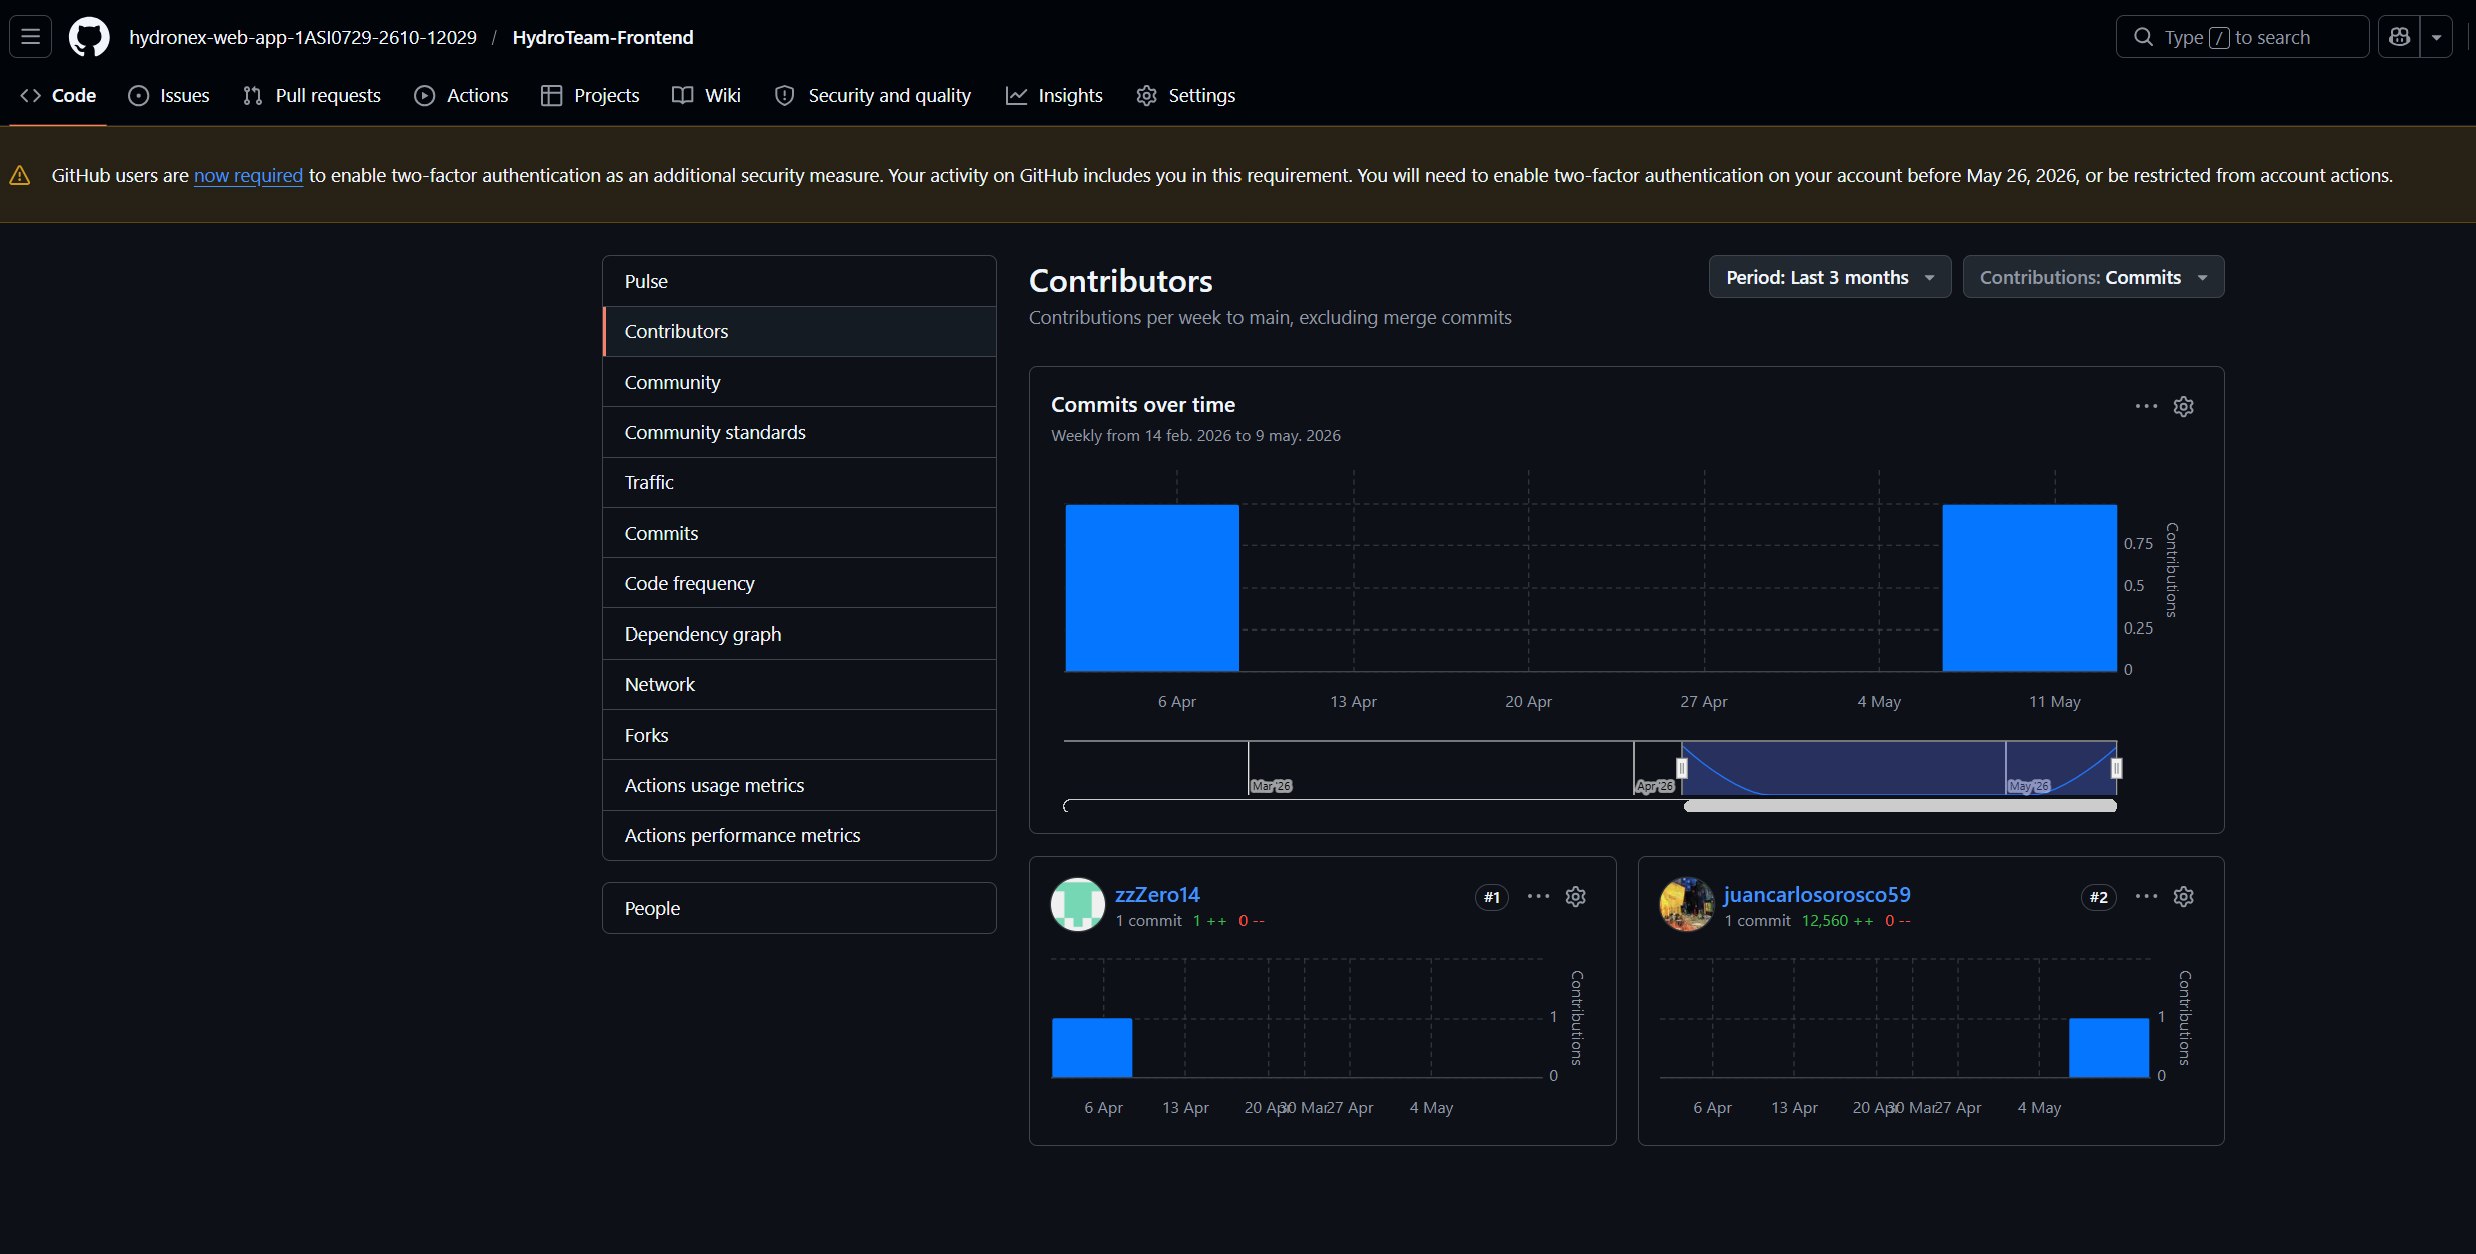
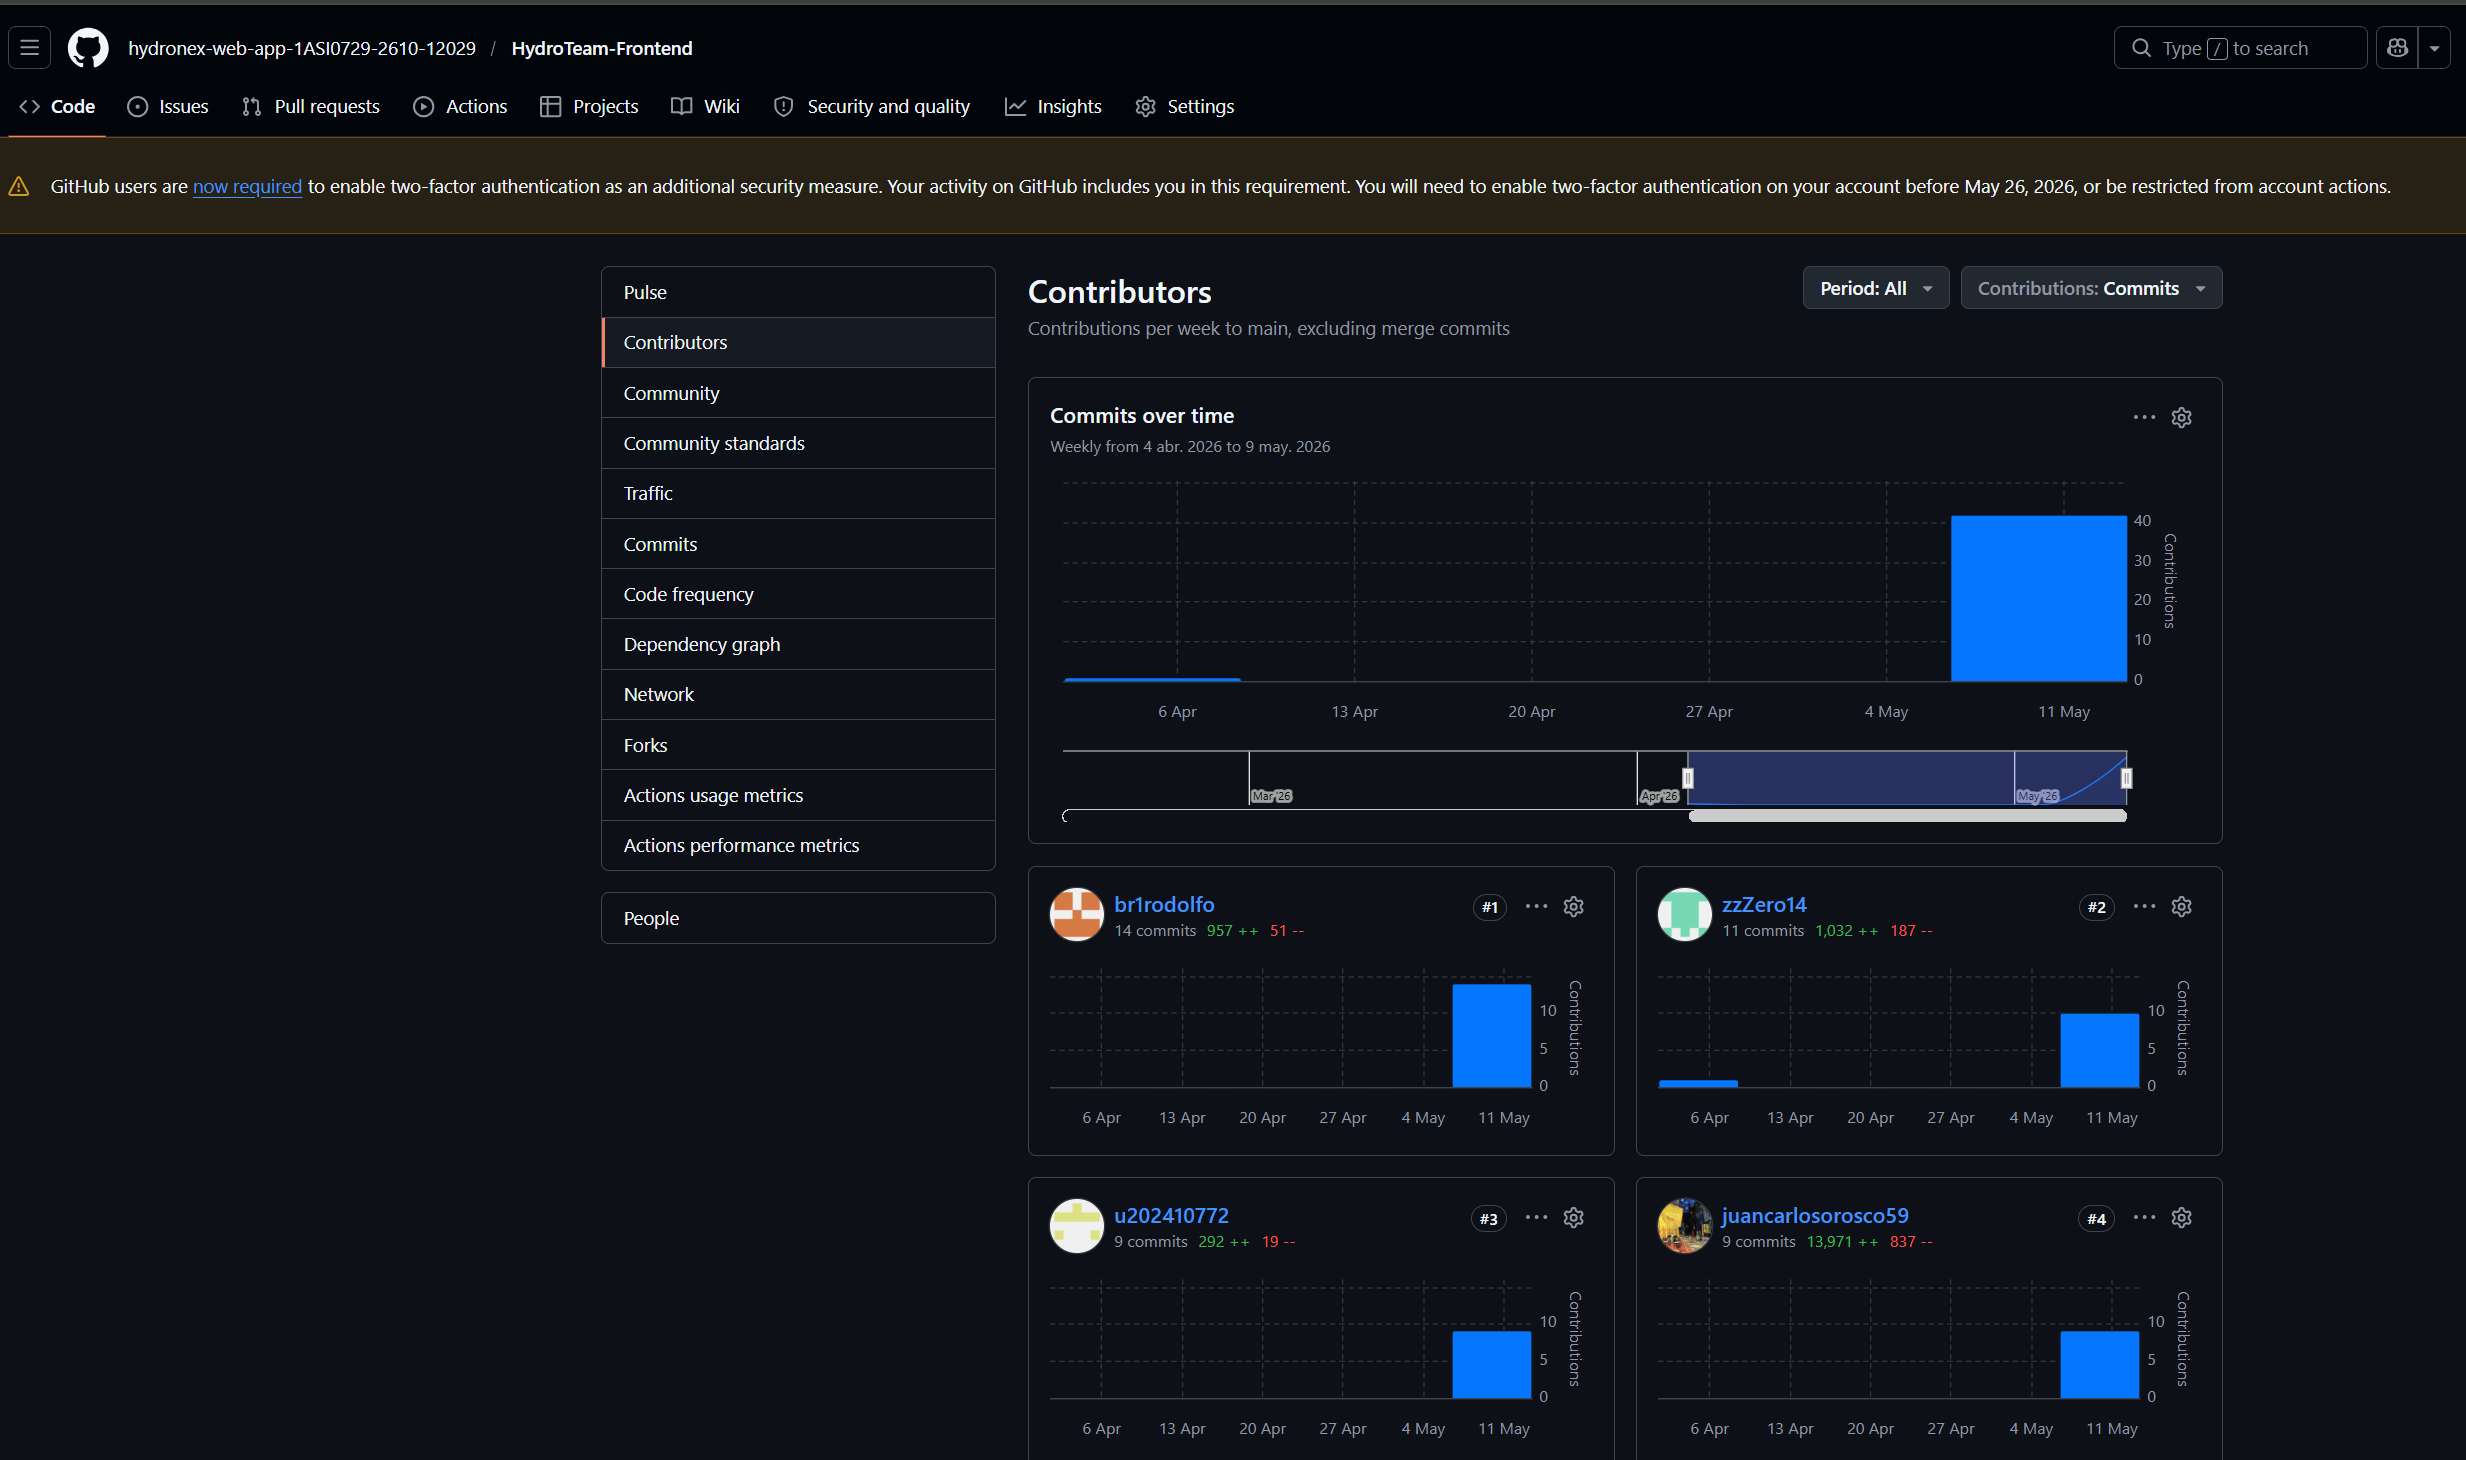
docs: complete tb1

diff --git a/README.md b/README.md
@@ -5612,6 +5612,15 @@ de vida del proyecto.
 
 - **Informe del Proyecto:** https://github.com/hydronex-web-app-1ASI0729-2610-12029/hydro-core
 - **Landing Page:** https://github.com/hydronex-web-app-1ASI0729-2610-12029/Landing-Page
+- **Frontend Web Application:** https://github.com/hydronex-web-app-1ASI0729-2610-12029/HydroTeam-Frontend
+- **Landing Page Wireframe:** https://www.figma.com/design/zIKkpQCDQCCpsutdlDkcEP/Wireframe-de-la-Landing-Page?node-id=3-5&t=N4edWbvrc8EivPXJ-1
+- **Landing Page Wireframe Mobile:** https://www.figma.com/design/JGpsqJiZuzKuPwkUBxKHBI/Wireframe-de-la-Landing-Page-en-Mobile?node-id=1-9&t=OmqUaP80nrQMMI2G-1
+- **Landing Page Mock Up:** https://www.figma.com/design/6rjBIMRTpRLoDnuCEjHuGv/Mock-UP-de-la-Landing-Page?node-id=0-1&t=UMLP9K59U1LBPrTr-1
+- **Landing Page Mock Up Mobile:** https://www.figma.com/design/JS56juAKWYo49QhGoqBpzU/Mock-UP-de-la-Landing-Page-en-Mobile?node-id=0-1&t=SQKrJ6o1OGWeU4MG-1
+- **Web Applications Wireframes:** https://www.figma.com/design/R0vhVVq6Pi4cjcQqofaj97/Wireframe-de-la-Web-Application?node-id=0-1&t=yqtYfPOamvsKCeSO-1
+- **Web Applications Wireflow Diagrams Wireframes:** https://lucid.app/lucidspark/a6b580b7-e7ec-4537-b1ec-ed9714e141a4/edit?viewport_loc=-3894%2C-1056%2C12000%2C5694%2C0_0&invitationId=inv_d7e7134a-9ab1-4d96-9e51-c5510ec8c6e9
+- **Web Applications Mock-ups:** https://www.figma.com/design/8E48rSmy7JK0TDPBwZajBw/Mock-UP-de-la-Web-Application?node-id=0-1&t=sm1kWRDizHW7wWPB-1
+- **Web Applications Wireflow Diagrams Mock ups:** https://lucid.app/lucidspark/c608803b-0c2b-4bbb-bbf6-f6a9e38aa5a5/edit?viewport_loc=-6696%2C-2052%2C14921%2C7080%2C0_0&invitationId=inv_c10fd18a-61aa-426c-a1f7-ddc4d4816ee0
 
 ---
 
